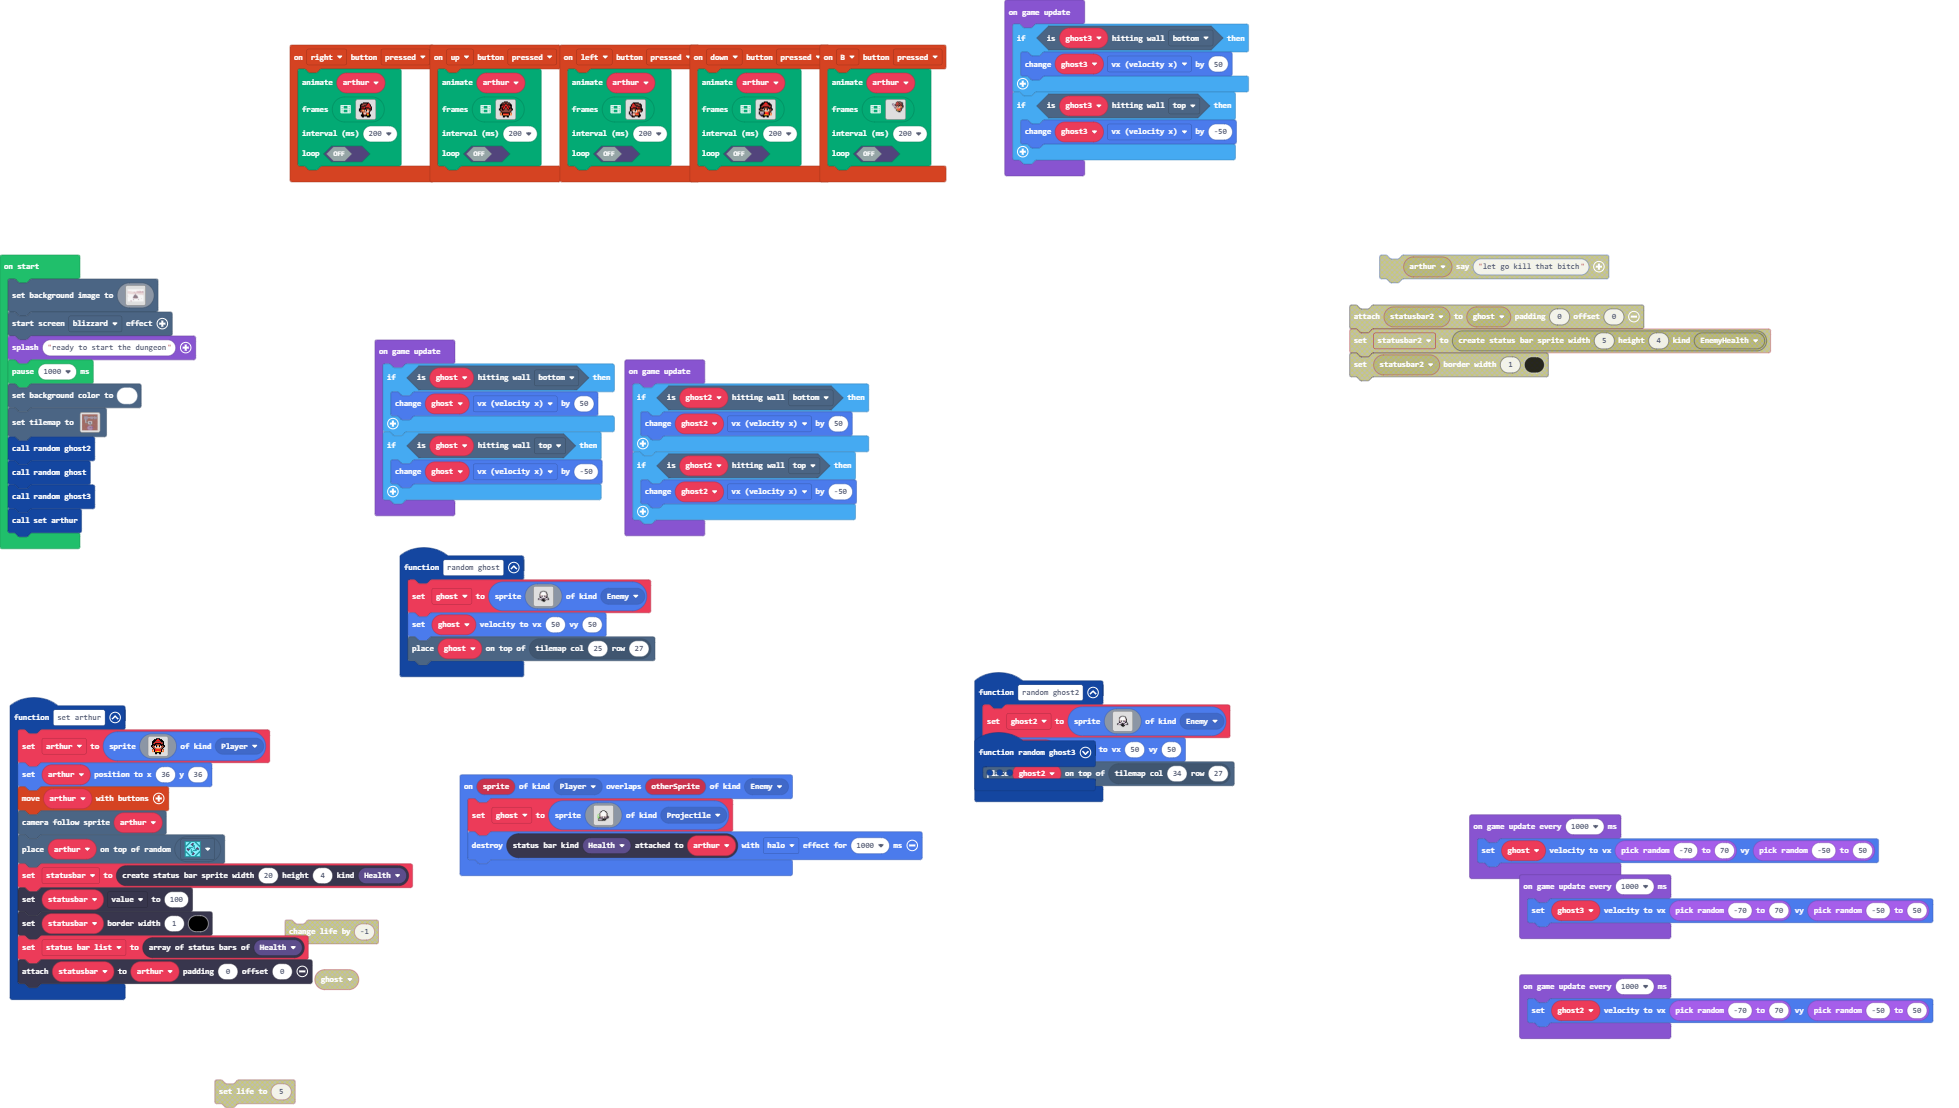
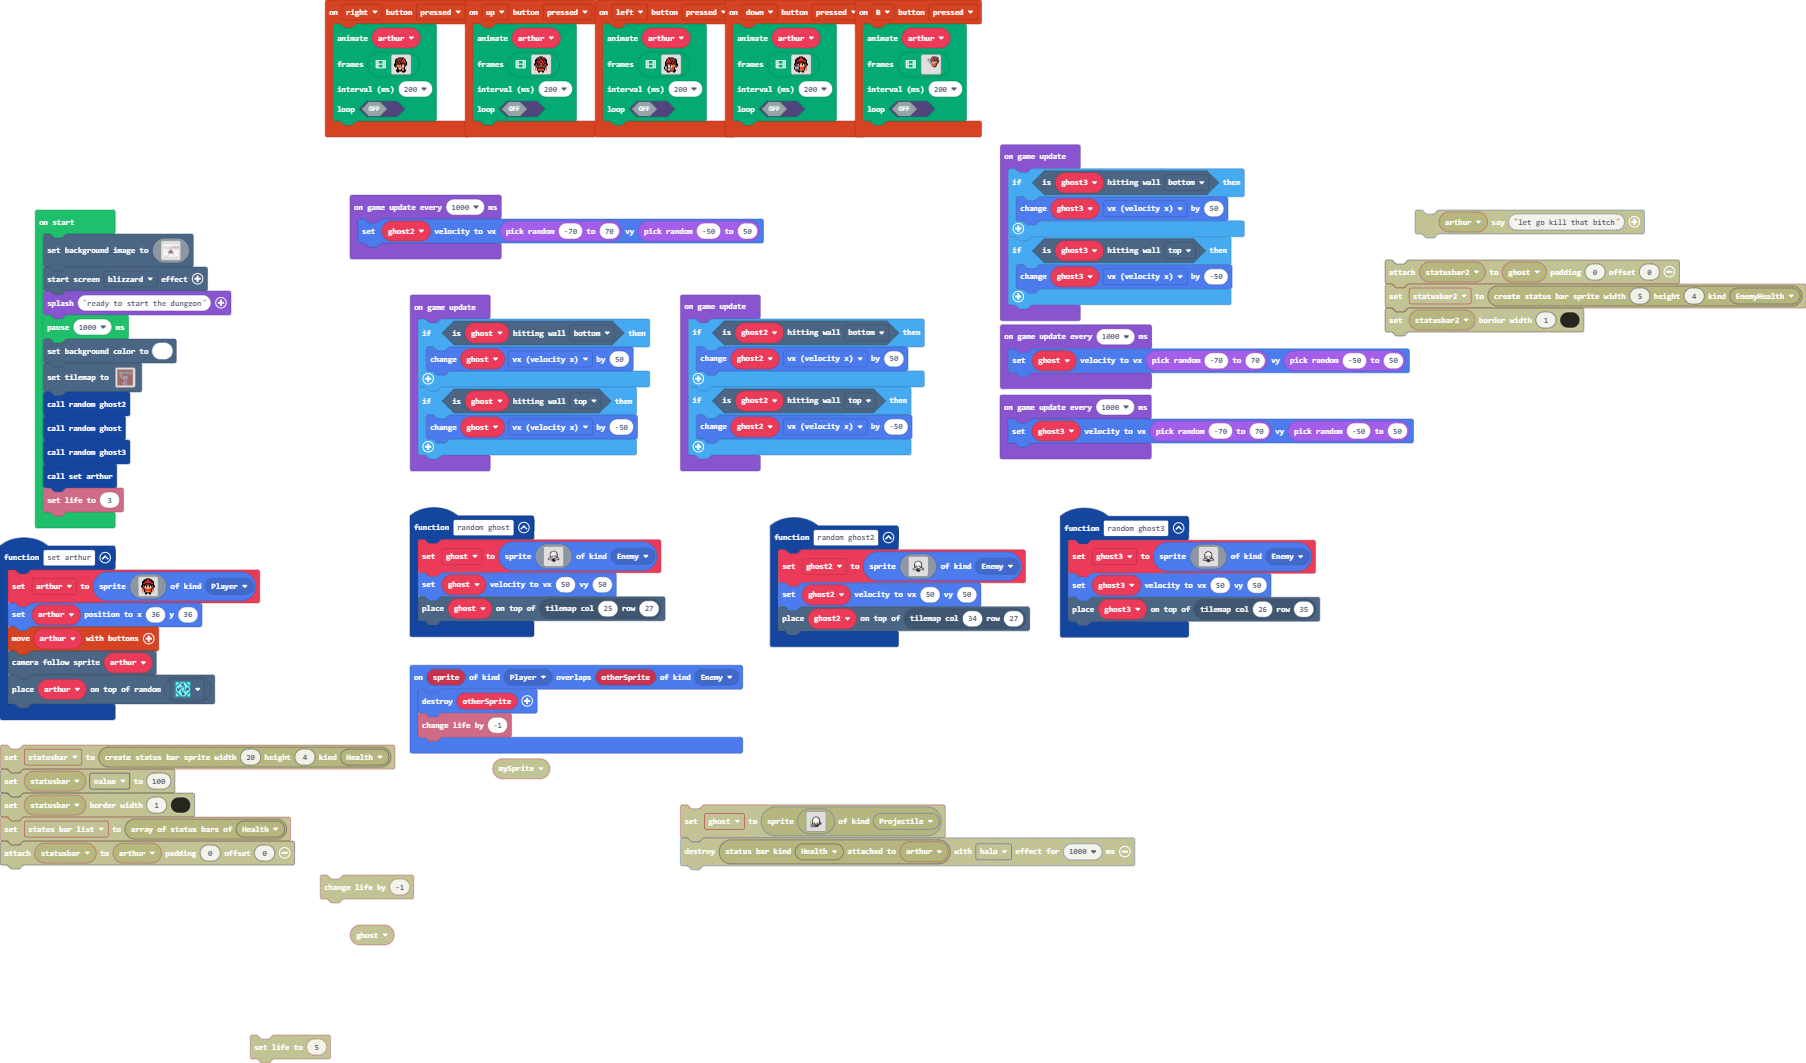
Impostata la gestione delle vite del personaggio principale.

diff --git a/main.ts b/main.ts
@@ -205,11 +205,6 @@ function set_arthur () {
     controller.moveSprite(arthur)
     scene.cameraFollowSprite(arthur)
     tiles.placeOnRandomTile(arthur, assets.tile`myTile1`)
-    statusbar = statusbars.create(20, 4, StatusBarKind.Health)
-    statusbar.value = 100
-    statusbar.setBarBorder(1, 15)
-    status_bar_list = statusbars.allOfKind(StatusBarKind.Health)
-    statusbar.attachToSprite(arthur, 0, 0)
 }
 controller.left.onEvent(ControllerButtonEvent.Pressed, function () {
     animation.runImageAnimation(
@@ -530,39 +525,12 @@ function random_ghost3 () {
     tiles.placeOnTile(ghost3, tiles.getTileLocation(26, 35))
 }
 sprites.onOverlap(SpriteKind.Player, SpriteKind.Enemy, function (sprite, otherSprite) {
-    ghost = sprites.create(img`
-        ........................
-        ........................
-        ........................
-        ........................
-        ........................
-        ..........ffff..........
-        ........ff1111ff........
-        .......fb111111bf.......
-        .......f11111111f.......
-        ......fd11111111df......
-        ....7.fd11111111df......
-        ...7..fd11111111df......
-        ...7..fd11111111df......
-        ...7..fddd1111dddff.....
-        ...77.fbdbfddfbdbfcf....
-        ...777fcdcf11fcdcfbf....
-        ....77fffbdb1bdffcf.....
-        ....fcb1bcffffff........
-        ....f1c1c1ffffff........
-        ....fdfdfdfffff.........
-        .....f.f.f..............
-        ........................
-        ........................
-        ........................
-        `, SpriteKind.Projectile)
-    statusbars.getStatusBarAttachedTo(StatusBarKind.Health, arthur).destroy(effects.halo, 1000)
+    otherSprite.destroy()
+    info.changeLifeBy(-1)
 })
 let ghost3: Sprite = null
 let ghost2: Sprite = null
 let ghost: Sprite = null
-let status_bar_list: StatusBarSprite[] = []
-let statusbar: StatusBarSprite = null
 let arthur: Sprite = null
 scene.setBackgroundImage(img`
     1111111111111111111111111111111111111111111111111111111111111111111111111111111111111111111111111111111111111111111111111111111111111111111111111111111111111111
@@ -695,6 +663,7 @@ random_ghost2()
 random_ghost()
 random_ghost3()
 set_arthur()
+info.setLife(3)
 game.onUpdate(function () {
     if (ghost3.isHittingTile(CollisionDirection.Bottom)) {
         ghost3.vx += 50
@@ -720,11 +689,11 @@ game.onUpdate(function () {
     }
 })
 game.onUpdateInterval(1000, function () {
+    ghost2.setVelocity(randint(-70, 70), randint(-50, 50))
+})
+game.onUpdateInterval(1000, function () {
     ghost.setVelocity(randint(-70, 70), randint(-50, 50))
 })
 game.onUpdateInterval(1000, function () {
     ghost3.setVelocity(randint(-70, 70), randint(-50, 50))
-})
-game.onUpdateInterval(1000, function () {
-    ghost2.setVelocity(randint(-70, 70), randint(-50, 50))
 })
